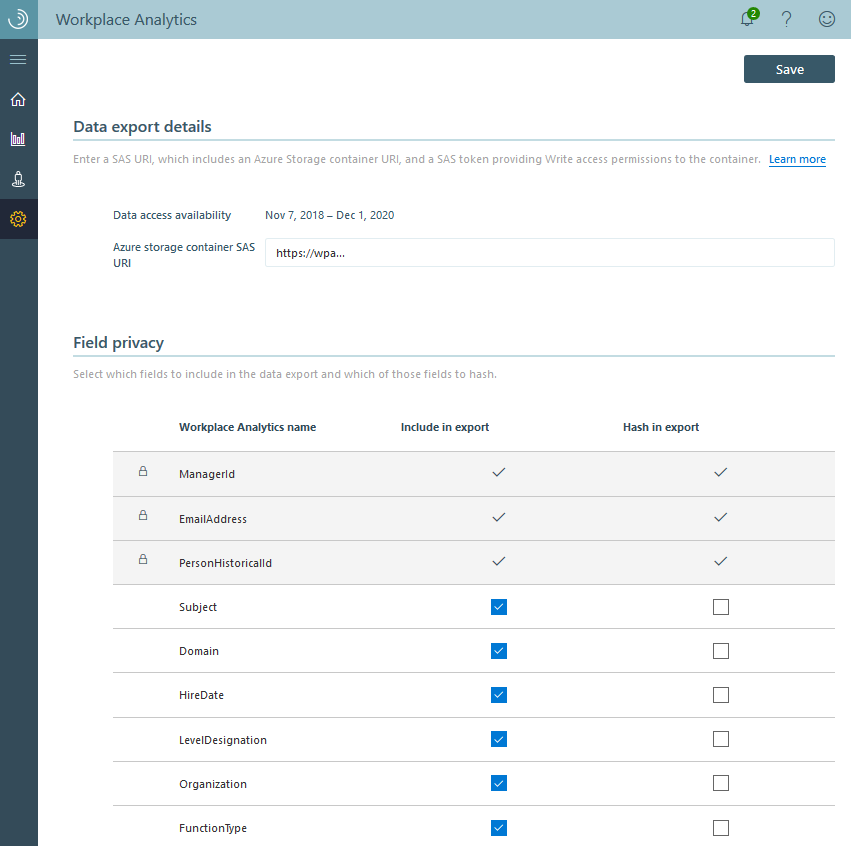
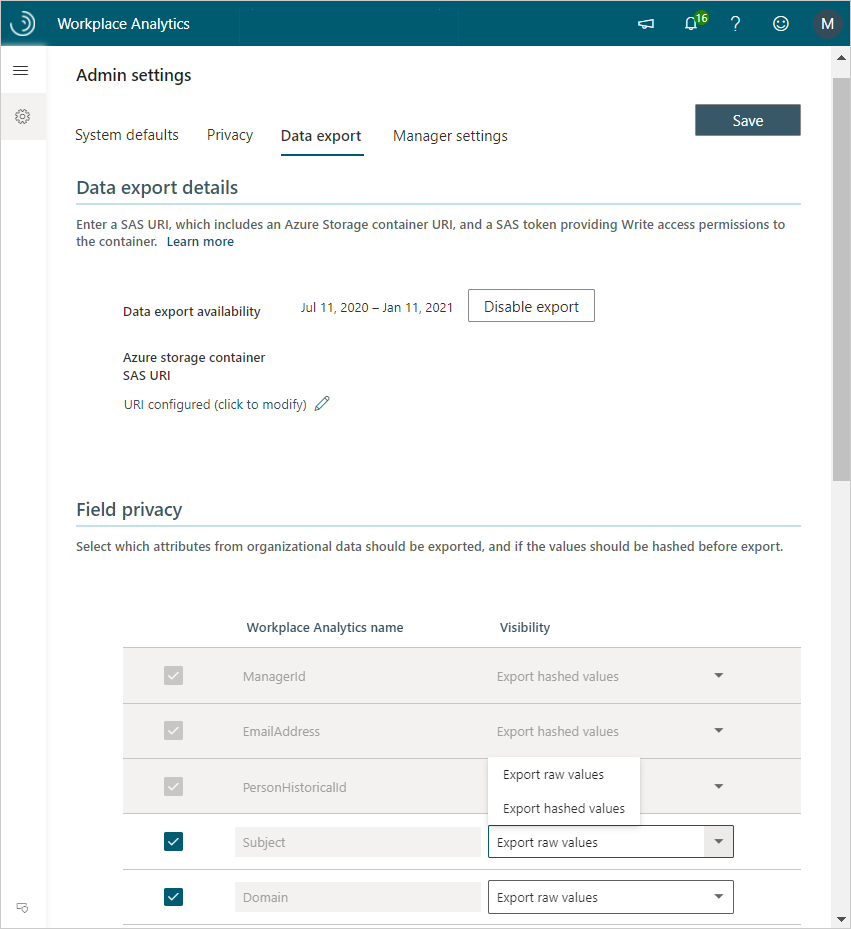
admin setting updates

diff --git a/WorkplaceAnalytics/Data-Access/query-data-export.md b/WorkplaceAnalytics/Data-Access/query-data-export.md
@@ -39,7 +39,7 @@ To set up the automated OData connection between Workplace Analytics query data 
 The following steps you through how to automate the export of Workplace Analytics query data to your choice Azure data store with the [Azure Data Factory UI](https://docs.microsoft.com/azure/data-factory/introduction). Use the following steps in conjunction with the [Azure documentation](https://docs.microsoft.com/azure/data-factory/introduction) to complete this setup.
 
 1. Follow the steps in [Register an application using the Azure portal](https://docs.microsoft.com/azure/active-directory/develop/quickstart-register-app#register-a-new-application-using-the-azure-portal) to create and register a new analytics app in Azure Active Directory.
-2. In **Azure Active Directory App registrations**, select the app from **Step 1**,  and then grant it permissions for accessing Workplace Analytics by selecting **View API permissions**, and then select **Add a permission**. 
+2. In **Azure Active Directory App registrations**, select the app from **Step 1**,  and then grant it permissions for accessing Workplace Analytics by selecting **View API permissions**, and then select **Add a permission**.
 3. Enter and search for the **Workplace Analytics App name** or **ID** and then select the applicable **Workplace Analytics app** from the list.
 
    ![App permissions](./images/app-permissions.png)
@@ -52,24 +52,24 @@ The following steps you through how to automate the export of Workplace Analytic
 
      ![Workplace Analytics Application ID](./images/app-id.png)
 
-4.	In **Request API permissions**, select **Application permissions**, select **Analyst**, and then select **Add permissions**. 
-5.	In **API permissions**, the global admin must select **Grant admin consent for [Workplace Analytics…]** before you can continue to the next step.
+4. In **Request API permissions**, select **Application permissions**, select **Analyst**, and then select **Add permissions**.
+5. In **API permissions**, the global admin must select **Grant admin consent for [Workplace Analytics…]** before you can continue to the next step.
 
     ![Grant the app permissions](./images/permissions-grant.png)
 
-6.	Follow the steps in [Create data factory](https://docs.microsoft.com/azure/data-factory/quickstart-create-data-factory-portal) to create a new analytics data factory within Azure Active Directory. 
-7.	In the **Azure Data Factory Overview**, select **Author & Monitor** to open Azure Data Factory.
+6. Follow the steps in [Create data factory](https://docs.microsoft.com/azure/data-factory/quickstart-create-data-factory-portal) to create a new analytics data factory within Azure Active Directory.
+7. In the **Azure Data Factory Overview**, select **Author & Monitor** to open Azure Data Factory.
 
     > [!Note]
     > Keep all browser windows open because you must switch between them to complete the following steps.
 
-8.	In **Azure Data Factory**, select **Create a pipeline**. 
-9.	Select the **ellipsis** (**…**) next **Datasets**, and then select **New dataset**. For more details, see [Datasets in Azure Data Factory](https://docs.microsoft.com/azure/data-factory/concepts-datasets-linked-services).
-10. In **Select a data store**, enter **odata**, and then select **OData**. 
+8. In **Azure Data Factory**, select **Create a pipeline**.
+9. Select the **ellipsis** (**…**) next **Datasets**, and then select **New dataset**. For more details, see [Datasets in Azure Data Factory](https://docs.microsoft.com/azure/data-factory/concepts-datasets-linked-services).
+10. In **Select a data store**, enter **odata**, and then select **OData**.
 11. In **General**, enter a name and description for the Workplace Analytics query data you’re linking to.
 12. Select **Connection**, select **New**, and then enter a name and description for the OData link, such as **WPA_Odata_Collab**.
 
-13. In **Connect via integration runtime**, select **AutoResolveIntegrationRuntime**. 
+13. In **Connect via integration runtime**, select **AutoResolveIntegrationRuntime**.
 14. In [Workplace Analytics](https://workplaceanalytics.office.com/) > **Queries** > **Results**, copy the OData link for the query data you want to connect to Azure.
 
     > [!Important]
@@ -77,8 +77,8 @@ The following steps you through how to automate the export of Workplace Analytic
 
      ![Query OData link](./images/query-link.png)
 
-15. In **Service URL**, paste the query OData link that you copied in the previous step. 
-16. In **AAD resource**, enter `https://workplaceanalytics.office.com`. 
+15. In **Service URL**, paste the query OData link that you copied in the previous step.
+16. In **AAD resource**, enter `https://workplaceanalytics.office.com`.
 17. In **Active Directory**, select **Overview** for the new app, and then copy the **Application (client) ID**.
 
      ![Azure application ID](./images/azure-app-id.png)
@@ -91,25 +91,25 @@ The following steps you through how to automate the export of Workplace Analytic
 20. In **Azure Active Directory** > **your newly registered analytics app**, select **Certificates & secrets**, and then do one of the following.
 
     * **For Key authentication**, select **New client secret** and in **Add a client secret**, enter a description, select when it expires, and then select **Add**. In **Client secrets**, select the new secret, and then select the **Copy icon** to copy it.
-    * **For Certificate authentication** (preferred for higher security), select a certificate and copy it. 
+    * **For Certificate authentication** (preferred for higher security), select a certificate and copy it.
 
 21. In **Azure Data Factory**, do the following for the applicable authentication type:
 
     * For Service principal key, paste the new client secret copied in the previous step in **Service principal key**.
-    * For **Azure key vault**, copy and paste the certificate and the other required information. See [Set and retrieve a secret from Azure Key Vault](https://docs.microsoft.com/azure/key-vault/secrets/quick-create-portal) for details. 
+    * For **Azure key vault**, copy and paste the certificate and the other required information. See [Set and retrieve a secret from Azure Key Vault](https://docs.microsoft.com/azure/key-vault/secrets/quick-create-portal) for details.
 
-22.	Select **Test connection** to test the OData linked service. 
-23.	After you see **Connection successful**, select **Create**. 
-24.	In **Connection** > **Linked service** for the new OData linked service, select the new dataset you just created in the previous steps.
-25.	In **Connection** > **Path**, select **Edit**, and then enter the **Entity set name**. To find it, copy the OData query link from [Workplace Analytics](https://workplaceanalytics.office.com/) > **Queries** > **Results**, and open it in a new browser window. Then search for **metadata** to find the entity name, which is shown after **$metadata#**. For example, the entity name shown in this graphic is **Persons**: 
+22. Select **Test connection** to test the OData linked service.
+23. After you see **Connection successful**, select **Create**.
+24. In **Connection** > **Linked service** for the new OData linked service, select the new dataset you just created in the previous steps.
+25. In **Connection** > **Path**, select **Edit**, and then enter the **Entity set name**. To find it, copy the OData query link from [Workplace Analytics](https://workplaceanalytics.office.com/) > **Queries** > **Results**, and open it in a new browser window. Then search for **metadata** to find the entity name, which is shown after **$metadata#**. For example, the entity name shown in this graphic is **Persons**:
 
      ![Query entity set name](./images/entity-set-name.png)
 
-26. Select **Preview data** for the path to confirm you entered the correct entity. 
-27. In **Azure Data Factory** > **Properties**, confirm the name and description for this new dataset. 
+26. Select **Preview data** for the path to confirm you entered the correct entity.
+27. In **Azure Data Factory** > **Properties**, confirm the name and description for this new dataset.
 28. Select **Publish all** at the top, and then select **Publish**.
 29. In **Pipelines**, create a new pipeline that can use the new OData dataset to copy the Workplace Analytics data to the external resource. For details, see [Create a pipeline](https://docs.microsoft.com/azure/data-factory/tutorial-copy-data-portal#create-a-pipeline).
-30. For the new pipeline, select **Source**, and in **Source dataset**, select the name of new OData dataset, and in **Use query**, select **Table**. 
+30. For the new pipeline, select **Source**, and in **Source dataset**, select the name of new OData dataset, and in **Use query**, select **Table**.
 31. Create a linked service for the data store you want to export to. For details, see [Linked services](https://docs.microsoft.com/azure/data-factory/author-management-hub#linked-services).
 32. In **Azure Data Factory** > **Author**, select the new pipeline, and then select **Add trigger** > **Trigger now** to manually run the last published pipeline, as shown in the following graphic. You can also schedule a trigger for this new pipeline by selecting **Add trigger** > **New/Edit** > **New**, and complete the required information for it. See [Pipeline execution and triggers in Azure Data Factory](https://docs.microsoft.com/azure/data-factory/concepts-pipeline-execution-triggers) for details.
 

diff --git a/WorkplaceAnalytics/Use/Settings.md b/WorkplaceAnalytics/Use/Settings.md
@@ -45,9 +45,9 @@ The [Data sources](../Use/data-sourcesv2.md) page provides dashboards that descr
 
 ## Upload
 
- * **Owner** – Workplace Analytics Admins have full access to this page.
+* **Owner** – Workplace Analytics Admins have full access to this page.
 
-On the **Upload** > **Organizational data** page, you can upload an organizational data file to Workplace Analytics. This file must be in .csv format, UTF-8 encoded.
+In **Settings** > **Upload** > **Organizational data** page, you can upload an organizational data file to Workplace Analytics. This file must be in .csv format, UTF-8 encoded.
 
 ![Upload page](../images/wpa/use/settings-upload1.png)
 
@@ -57,7 +57,7 @@ Organizational data is contextual information about employees (for example, job 
 
 ## Analysis settings
 
- * **Owners** – Workplace Analytics Analysts have full access to this page and limited Analysts have read-only access.
+* **Owners** – Workplace Analytics Analysts have full access to this page and limited Analysts have read-only access.
 
 On the **Analysis settings** page, you can create and customize meeting exclusion rules to remove meetings (such as appointments that are unrelated to work) that you don't want to include in analysis.
 
@@ -67,15 +67,15 @@ For detailed information on how to create new exclusion rules, see [Meeting excl
 
 ## Admin settings
 
- * **Owner** – Workplace Analytics Admins have full access to this page
+* **Owner** – Workplace Analytics Admins have full access to this page
 
 In **Admin settings**, you can configure [system defaults](#system-defaults), [privacy settings](#privacy-settings), and [manager settings](#manager-settings).
 
-![Admin settings](../images/wpa/use/admin-system-defaults.png)
+![Admin settings](../images/wpa/use/system-defaults.png)
 
 ### System defaults
 
-On the **System defaults** page, you can configure the following:
+In **System defaults**, you can configure the following:
 
 * [Default time zone](#default-time-zone)
 * [Working days and hours](#working-days-and-hours)
@@ -125,22 +125,22 @@ With this setting, you can reclassify one or more external domains as internal, 
 
 After you add a domain and save the change for this setting, it'll change all of the data related to the specified domain as internal to your organization, as follows:
 
- * Explore the stats charts and metrics will show the domain as internal *retroactively* for the specified date range. For example, employees in this domain will change from external to internal collaborators for all collaboration data shown in **Explore the stats**.
- * Organizational and Office 365 data from this domain will update to be internal after the *next data refresh*.
- * Sources data will include this domain (previously external) in internal-collaborator metrics and applicable coverage data will change based on this new domain classification.
- * The changes can be reverted by removing the domain that was reclassified.
- * [Excluding domains in the privacy settings](#exclude-domains-or-email-addresses) overrides the changes made with this reclassification setting. That is, an excluded domain remains excluded, whether or not it's reclassified as internal.
+* Explore the stats charts and metrics will show the domain as internal *retroactively* for the specified date range. For example, employees in this domain will change from external to internal collaborators for all collaboration data shown in **Explore the stats**.
+* Organizational and Office 365 data from this domain will update to be internal after the *next data refresh*.
+* Sources data will include this domain (previously external) in internal-collaborator metrics and applicable coverage data will change based on this new domain classification.
+* The changes can be reverted by removing the domain that was reclassified.
+* [Excluding domains in the privacy settings](#exclude-domains-or-email-addresses) overrides the changes made with this reclassification setting. That is, an excluded domain remains excluded, whether or not it's reclassified as internal.
 
 ### Privacy settings
 
-In **Admin settings** > **Privacy settings**, you can decide what data you want to exclude from analysis and what data you want visible in [Queries](../Tutorials/Query-basics.md) and [Explore the stats](../Use/explore-intro.md). Watch the [Privacy video](#privacy-video) to learn more about how Workplace Analytics keeps personal data private. You can use privacy settings to:
+In **Settings** > **Admin settings** > **Privacy**, you can decide what data you want to exclude from analysis and what data you want visible in [Queries](../Tutorials/Query-basics.md) and [Explore the stats](../Use/explore-intro.md). Watch the [Privacy video](#privacy-video) to learn more about how Workplace Analytics keeps personal data private. You can use privacy settings to:
 
 * [Set the minimum group size](#minimum-group-size)
 * [Hash subject lines](#hash-subject-lines)
 * [Exclude domains or email addresses](#exclude-domains-or-email-addresses)
 * [Exclude terms from subject lines](#exclude-terms-from-subject-lines)
 
-![Admin privacy settings](../images/wpa/use/admin-privacy-settings.png)
+![Admin privacy settings](../images/wpa/use/privacy-settings.png)
 
 After you change privacy settings, your changes take effect after data is processed in the following week. This means that these changes do not affect data that has already been extracted. (For example, the privacy settings for excluding email, meetings, and domains do not affect data retroactively.)
 
@@ -276,7 +276,7 @@ The following are based on the latest organizational (HR) data that's been succe
 > [!Important]
 > Before managers can access Workplace Analytics, they must be assigned a Workplace Analytics license and have a team that meets or exceeds the **Minimum team size** setting.
 
-1. In **Admin settings** > **Manager settings**, select to change the switch **On** to allow managers with the minimum team size access to their team data in Workplace Analytics.
+1. In **Settings** > **Admin settings** > **Manager settings**, select to change the switch **On** to allow managers with the minimum team size access to their team data in Workplace Analytics.
 2. Select one of the following:
 
    * **All managers** - Allows all measured managers access.

diff --git a/WorkplaceAnalytics/Data-Access/Data-Access.md b/WorkplaceAnalytics/Data-Access/Data-Access.md
@@ -4,7 +4,7 @@ ROBOTS: NOINDEX,NOFOLLOW
 title: Workplace Analytics Data export
 description: Learn about Workplace Analytics Data export and how to set up and use it
 author: madehmer
-ms.author: v-pausch
+ms.author: v-mideh
 ms.topic: article
 search.appverid:
 - MET150
@@ -47,9 +47,9 @@ The following .csv files are included in data exports. Select a file to view wha
 1. If you have already installed Azure Templates, use the SAS URI created after deployment which grants write only access to the raw data folder that was setup during deployment and use that URI in the following step 3.
 
    If you have not installed Azure Templates, or if you're setting up data access for other reasons, set up your Azure storage container as described in [Azure environment requirements](#azure-environment-requirements) and [Azure storage container setup](#azure-storage-container-setup). Confirm the URI is write only and has an applicable expiration date.
-2. In Workplace Analytics, go to **Settings** > **Data export**.
+2. In Workplace Analytics, go to **Settings** > **Admin settings** > **Data export**.
 3. In **Azure storage container SAS URI**, enter the URI for the Azure storage container.
-4. In the **Field privacy** section, you can select which fields to include and which fields to mask in the export. Note the options for the required fields at the top of the list are locked and unchangeable, as shown in the following graphic.
+4. In the **Field privacy** section, select which fields to export as raw values and as hashed values. Note the options for the required fields at the top of the list are locked and unchangeable, as shown in the following graphic.
 
    > [!Note]
    > When you add new attributes to your organizational data and you want to include them in a data export, you must repeat this step to add the new attributes as additional fields to include in the export.
